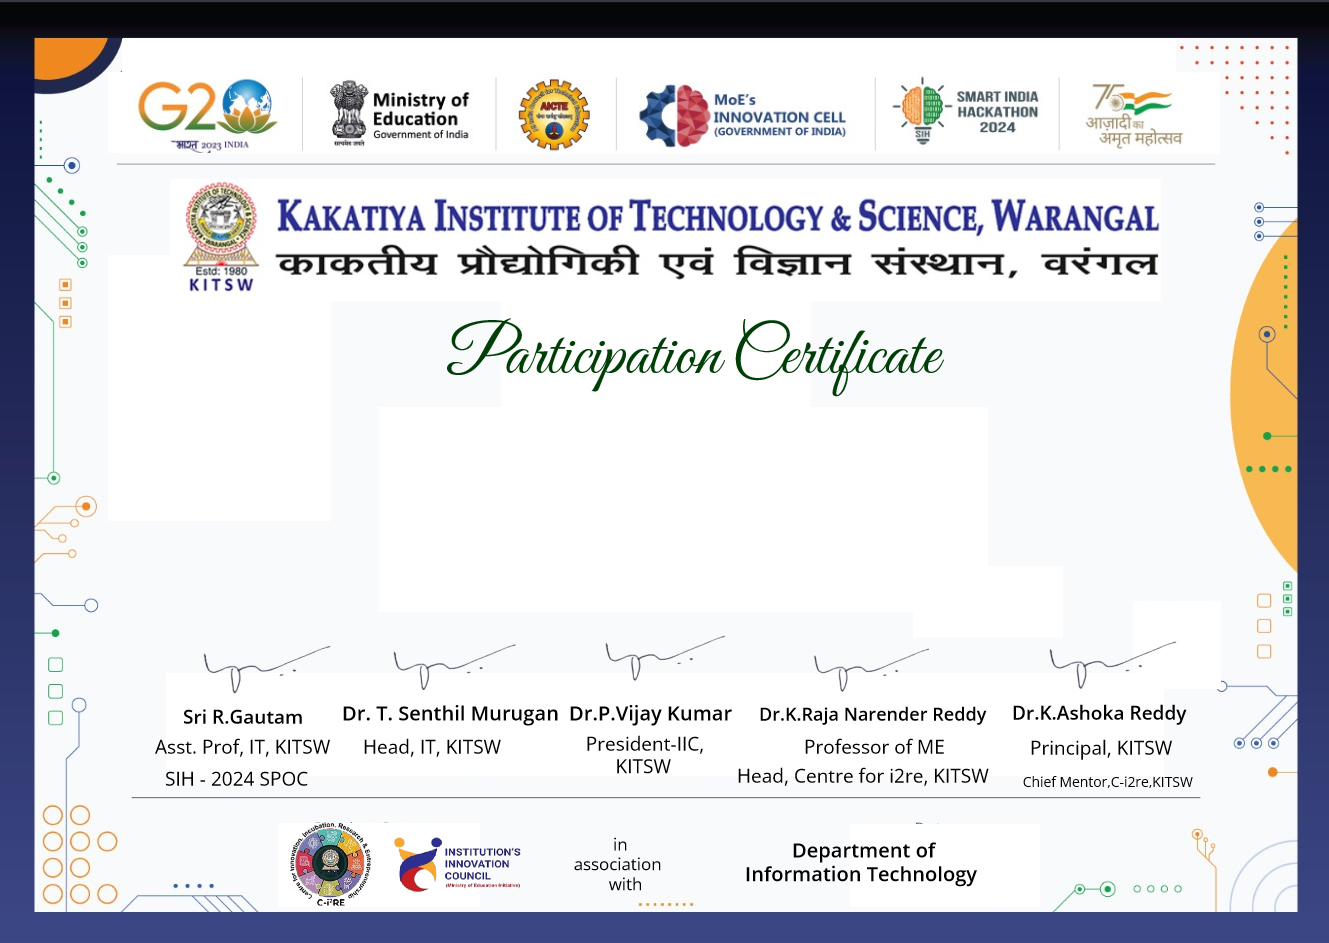
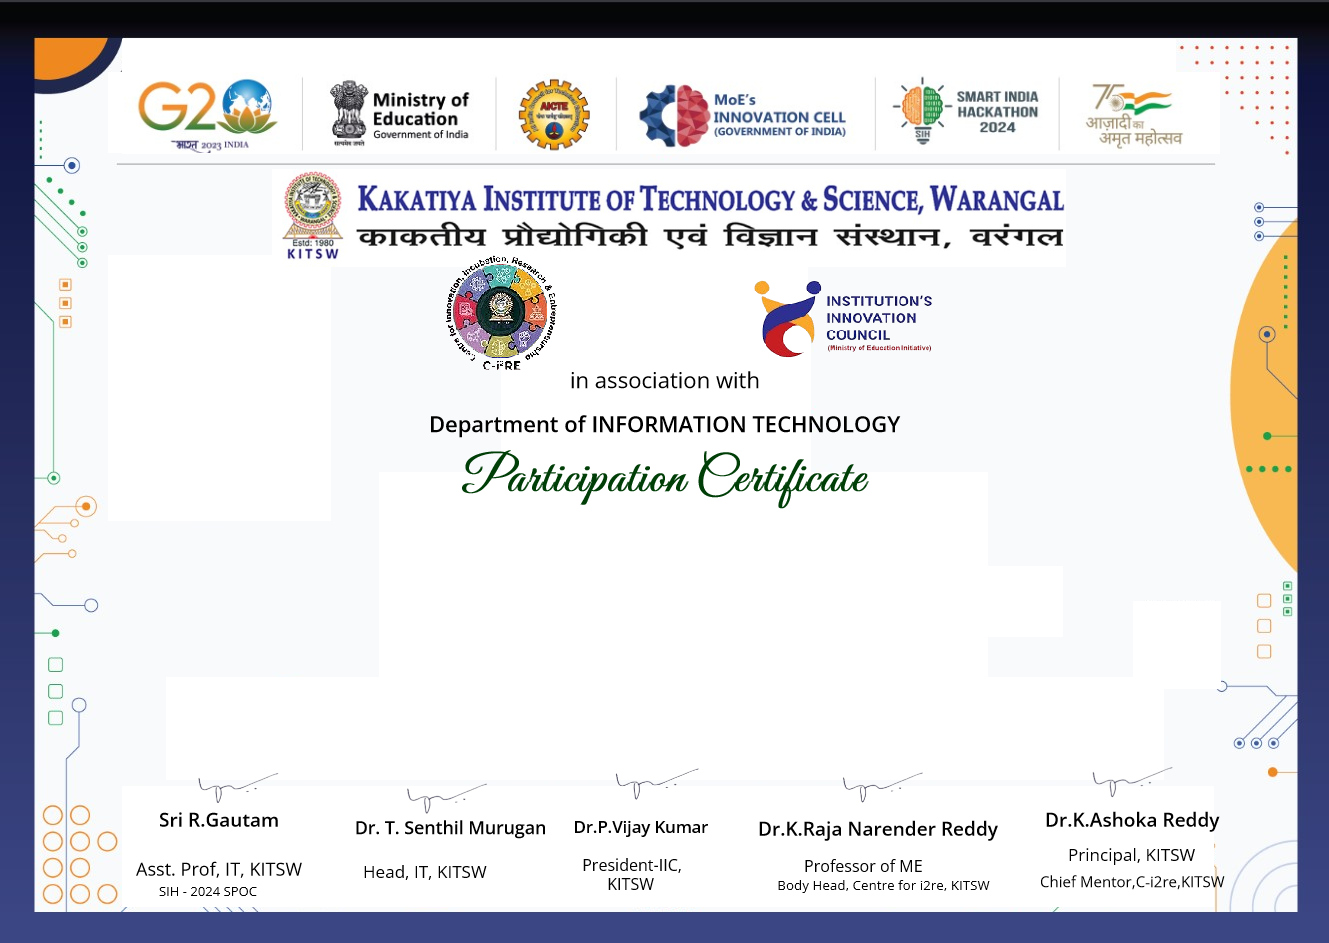
safety on

diff --git a/main.py b/main.py
@@ -14,39 +14,36 @@ persons = pd.read_csv('persons.csv')
 def format_email(email):
     return email.split('@')[0]
 
-# create a dictionary to keep track of duplicate names
-name_counter = {}
-
 # iterate over the rows in the dataframe
-# iterate over the rows in the dataframe
-for index, row in persons.iterrows(): # adjust this range according to the number of students in a row
-        name_field = f"Student Full Name"
-        email_field = f"Email (Domain Mail ID)"
-        if pd.notna(row[name_field]) and pd.notna(row[email_field]):
-            name = row[name_field]
-            email = format_email(row[email_field])
-            roll_number = email.upper()  # use the roll number from the email
+for index, row in persons.iterrows():
+    if pd.notna(row["Student Full Name"]) and pd.notna(row["Email (Domain Mail ID)"]):
+        name = row["Student Full Name"]
+        email = format_email(row["Email (Domain Mail ID)"])
+        roll_number = email.upper()  # use the roll number from the email
+        problem_title = row["Problem Statement Title"]
+        problem_number = row["Problem Statement Number (Example: SIH1281)"]
 
-            # format the text to be printed on the image
-            text = f"This is to certify that {name}, Roll No. {roll_number}, successfully participated in the Internal Hackathon for Smart India Hackathon 2024 at KITSW held on 31/08/2024"
+        # format the text to be printed on the image
+        text = f"This is to certify that {name},Roll No. {roll_number}, successfully participated in the Internal Hackathon for Smart India Hackathon 2024 at KITSW held on 31/08/2024. \n Problem Statement: {problem_title} ({problem_number})"
 
-            # wrap the text into multiple lines if it's too long
-            wrapper = textwrap.TextWrapper(width=80)  # adjust width as needed
-            text_lines = wrapper.wrap(text=text)
+        # wrap the text into multiple lines if it's too long
+        wrapper = textwrap.TextWrapper(width=80)  # adjust width as needed
+        text_lines = wrapper.wrap(text=text)
 
-            im = Image.open("sample.jpg")
-            draw = ImageDraw.Draw(im)
-            location = (223, 423)
-            text_color = (0, 0, 0)
-            selectFont = ImageFont.truetype("arial.ttf", size=25)
+        im = Image.open("sample.jpg")
+        draw = ImageDraw.Draw(im)
+        location = (223, 533)
+        text_color = (0, 0, 0)
+        selectFont = ImageFont.truetype("arial.ttf", size=25)
 
-            # draw each line of text
-            for line in text_lines:
-                draw.text(location, line, fill=text_color, font=selectFont)
-                location = (location[0], location[1] + 30)  # move location for next line
+        # draw each line of text
+        for line in text_lines:
+            draw.text(location, line, fill=text_color, font=selectFont)
+            location = (location[0], location[1] + 30)  # move location for next line
 
-            # create a unique key using the name, email, and index
-            unique_key = f"{name}_{email}_{index}"
+        # create a unique key using the name, email, and index
+        unique_key = f"{name}_{email}_{index}"
+        unique_key = unique_key.replace(" ", "_")  # replace spaces with underscores
 
-            # append the counter to the file name
-            im.save(f"certificates\\certificate_{unique_key}.jpg")
+# append the counter to the file name
+        im.save(f"certificates\\certificate_{unique_key}.jpg")
